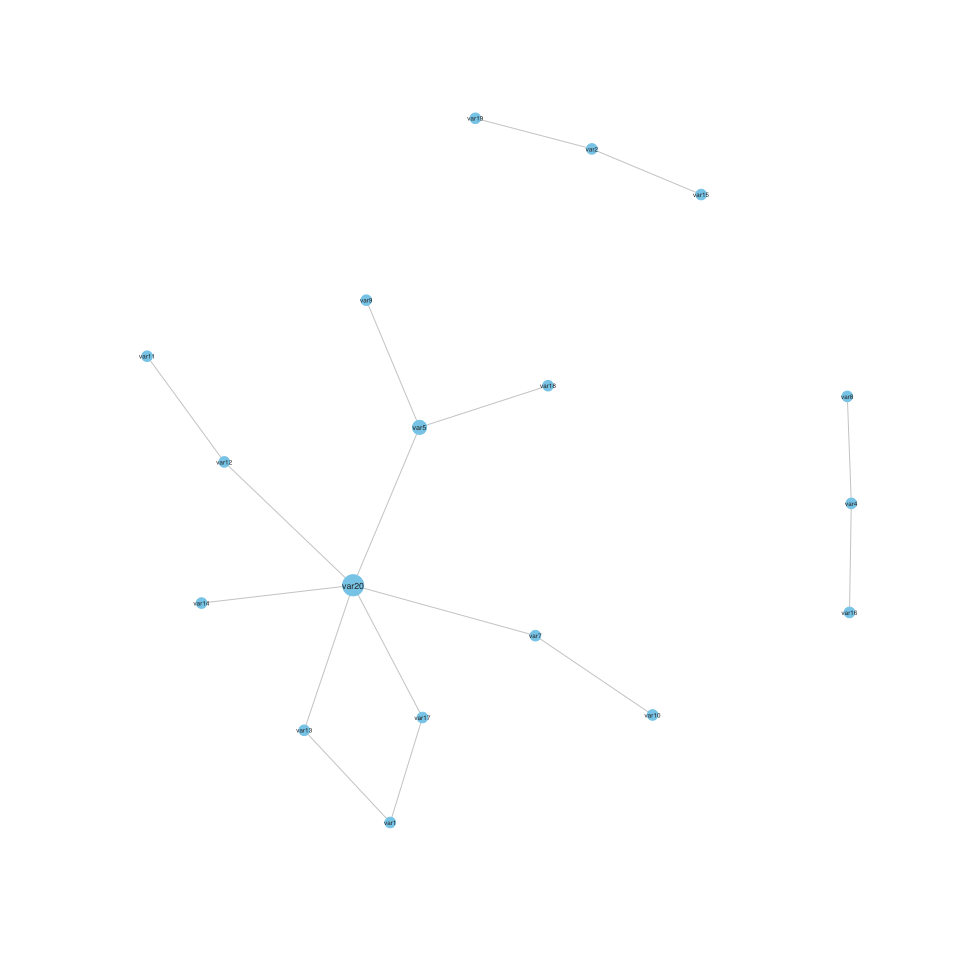
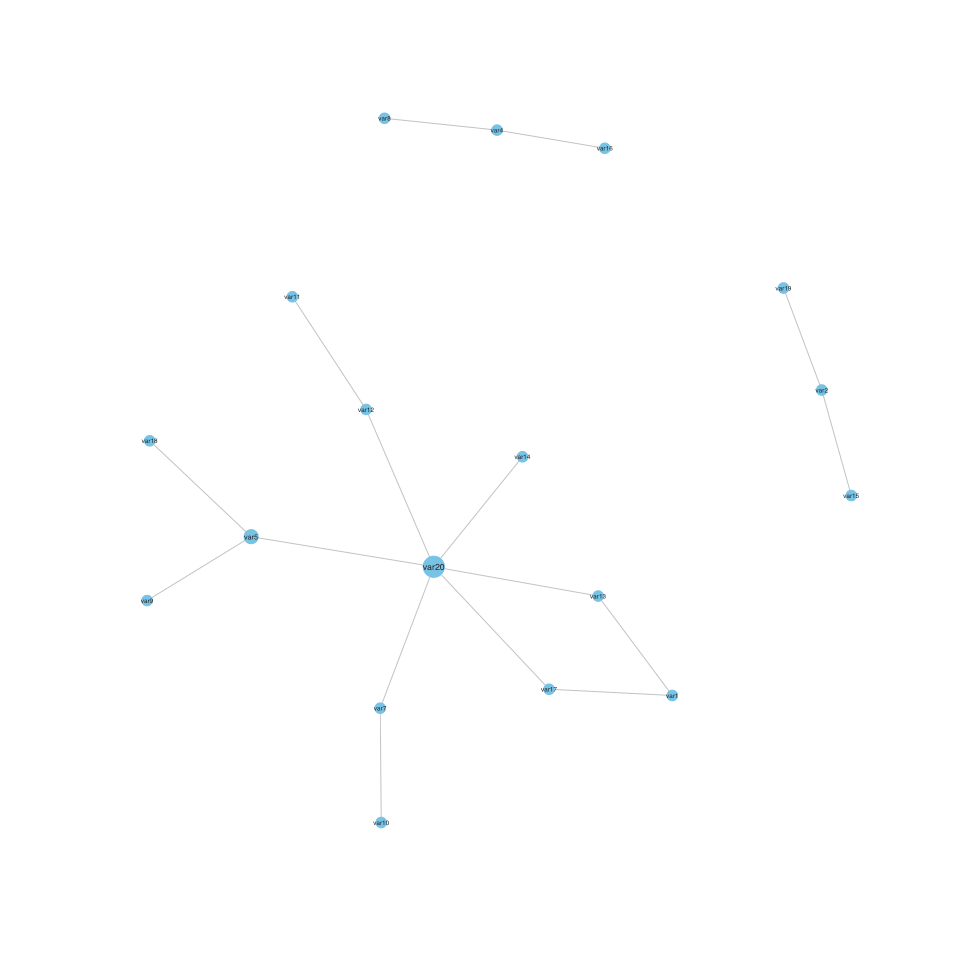
set seed in readme

diff --git a/README.md b/README.md
@@ -263,6 +263,7 @@ For visualisation, it can be converted into an igraph object:
 
 ``` r
 mygraph=Graph(myadjacency)
+set.seed(1)
 plot(mygraph)
 ```
 
